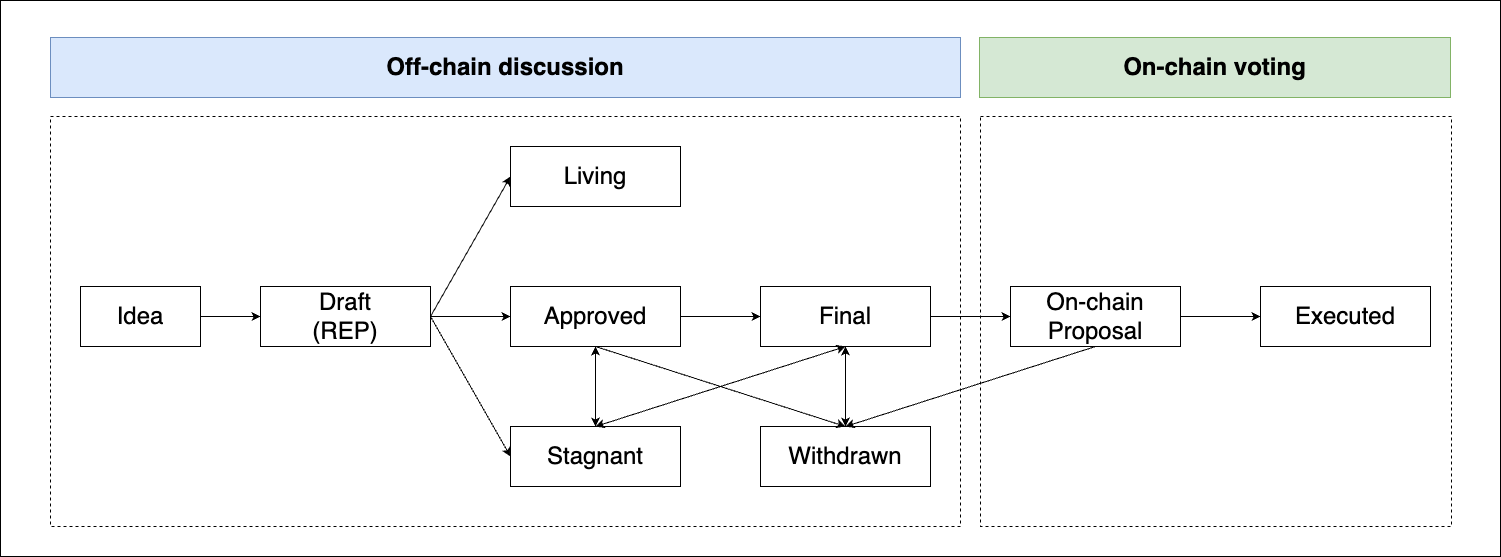
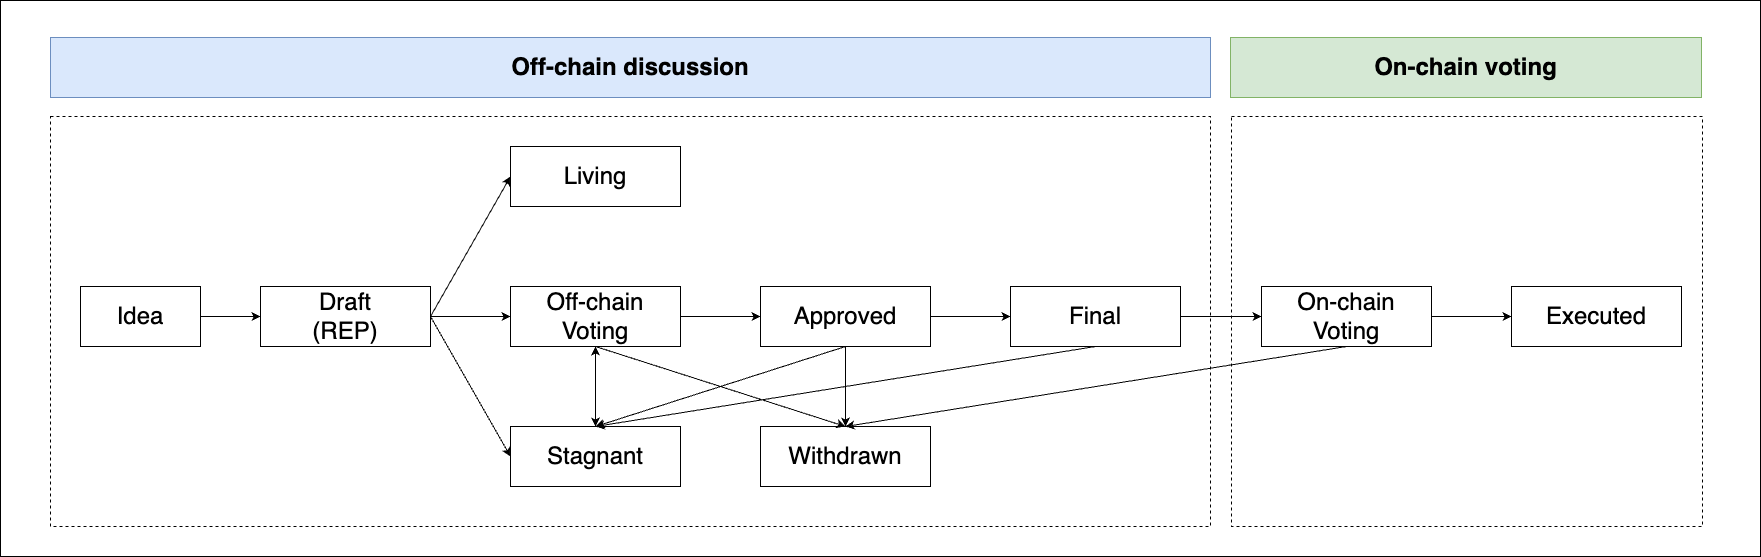
REP-0001: improve language

diff --git a/REP-0001.md b/REP-0001.md
@@ -22,13 +22,14 @@ The following is the standardization process for all REPs in all tracks:
 
 - **Idea.** An idea that is pre-draft. This is not tracked within the REPs Repository. You may discuss with the community (on Discord) first before you put too much effort.
 - **Draft.** This is the first stage of a REP in its development process. To ensure the feasibility of the draft, the authors are encouraged to engage in discussions with the Ronin Core team. Before merging into the REPs repository and obtaining a REP number, a draft undergoes a comprehensive review conducted by the Ronin Core team.
+- **Off-chain Voting** Once the draft is ready, the authors will make a public announcement to the community. If there is no pushback, the off-chain voting process will begin. 
 - **Approved.** A draft is approved under the following conditions: 
-1) a public announcement is made to the community, and there is generally no pushback; 
-2) more than 50% of validators (Governing and Standard) approve; and 
-3) less than 25% of validators reject.
-- **Final.** Ronin Core team put the approved draft into the developing phase, if the core team successfully implements the idea, it can be marked as final.
-- **On-chain proposal.** The implementation of the REP has been deployed and an on-chain proposal is created. 
-- **Approved.**  The on-chain proposal is approved by more than 75% of the governing validators. The implementation will take effect once it is approved.
+1) more than 50% of validators (Governing and Standard) approve; and 
+2) less than 25% of validators reject.
+Approved proposals are then implemented by the Core team. 
+- **Final.** Ronin Core team put the approved draft into the developing phase, if the core team successfully implemented and tested the idea, it can be marked as final.
+- **On-chain Voting.** The implementation of the REP has been deployed and an on-chain proposal is created. 
+- **Executed.**  The on-chain proposal is approved by more than 75% of the governing validators. The implementation will take effect once it is approved.
 
 Other exceptional statuses include:
 
@@ -42,14 +43,12 @@ Each REP should have the following parts:
 
 - Preamble - A header containing metadata about the REP, including the REP number, a short descriptive title, a description, and the author's details.
 - Abstract - Abstract is a short paragraph technical summary. This should be a very terse and human-readable version of the specification section. Someone should be able to read only the abstract to get the gist of what this specification does.
-- Motivation *(optional)* - A motivation section is critical for EIPs that want to change the Ethereum protocol. It should clearly explain why the existing protocol specification is inadequate to address the problem that the EIP solves. This section may be omitted if the motivation is evident.
 - Rationale - The rationale fleshes out the specification by describing what motivated the design and why particular design decisions were made. It should describe alternate designs that were considered and related work, e.g. how the feature is supported in other languages. The rationale should discuss important objections or concerns raised during the discussion around the REP.
-- Specification - The technical specification should describe the syntax and semantics of any new feature. The specification should be detailed enough to allow competing, interoperable implementations for any of the current Ronin platforms.
-- Backward Compatibility *(optional)* - All REPs that introduce backward incompatibilities must include a section describing these incompatibilities and their consequences. The EIP must explain how the author proposes to deal with these incompatibilities. This section may be omitted if the proposal does not introduce any backward incompatibilities, but this section must be included if backward incompatibilities exist.
-- Test Cases *(optional)* - Test cases for implementation are mandatory for REPs that are affecting consensus changes. Tests should either be inlined in the REP as data (such as input/expected output pairs. 
-- Reference Implementation (*optional*) - An optional section that contains a reference/example implementation that people can use to assist in understanding or implementing this specification. This section may be omitted for all REPs.
-- Security/Economic analysis - An optional section that discusses the security/economic analysis relevant to the proposed change.
-
+- Specification - The technical specification should describe the syntax and semantics of any new proposal. The specification should be detailed enough to allow competing, interoperable implementations for any of the current Ronin platforms.
+- Backward Compatibility *(optional)* - All REPs that introduce backward incompatibilities must include a section describing these incompatibilities and their consequences. This section may be omitted if the proposal does not introduce any backward incompatibilities, but this section must be included if backward incompatibilities exist.
+- Test Cases *(optional)* - Test cases for implementation are mandatory for REPs that are affecting consensus changes. Tests should either be inlined in the REP as data (such as input/expected output pairs). 
+- Reference Implementation (*optional*) - An optional section that contains a reference implementation of the proposal.
+- Security/Economic analysis - Sections that discusses the security/economic analysis of the proposal. 
 ##  Reference
 
 Bitcoin Improvement Proposals:  <https://github.com/bitcoin/bips>
